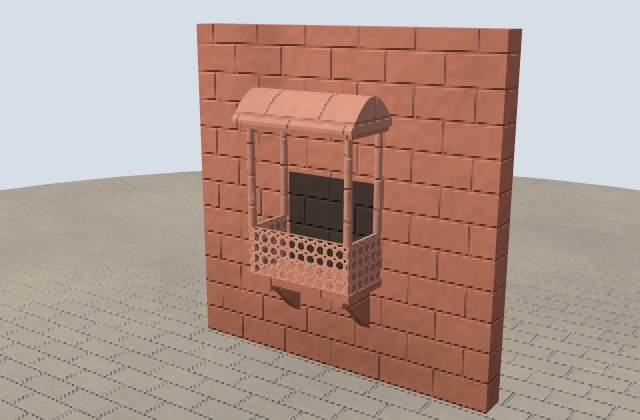
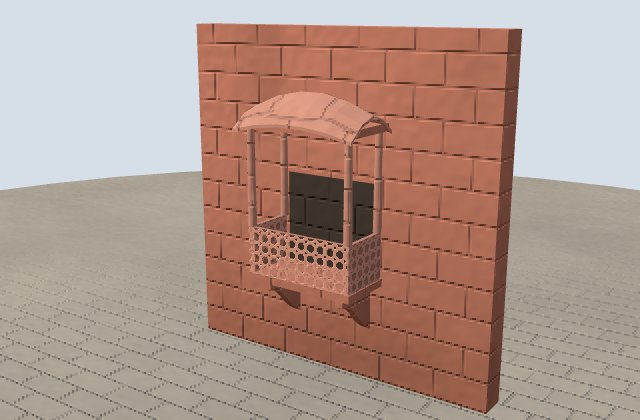
Doubly curved bangla roofs, Agra Fort's gilded pavilions and Red Fort's jharokha; copper and gilded-copper sheet surfaces
Claude-Session: https://claude.ai/code/session_01TMbkMUwCUQfd5rFm58379h

Changed region(s): [[0.5, 0.2167, 0.625, 0.3405], [0.3438, 0.1857, 0.4688, 0.3095]]

diff --git a/js/surface.js b/js/surface.js
@@ -7,7 +7,7 @@ import * as THREE from 'three';
 // patches of soot and age; strongest on brick, about half on marble, none on gilt) and a small
 // per-object tint so that repeated pieces don't look cloned. Water is its own kind: moving ripples
 // that tilt the normal, so the sky reflects in a broken, shifting band instead of a flat sheen.
-export const KINDS = { none: 0, masonry: 1, marble: 2, brick: 3, rock: 4, ground: 5, lattice: 6, tiles: 7, foliage: 8, water: 9, script: 10, frieze: 11, carved: 12, facade: 13, calligraphy: 14, pietra: 15, reliefs: 16, banded: 17, paving: 18, plates: 19, reeds: 20 };
+export const KINDS = { none: 0, masonry: 1, marble: 2, brick: 3, rock: 4, ground: 5, lattice: 6, tiles: 7, foliage: 8, water: 9, script: 10, frieze: 11, carved: 12, facade: 13, calligraphy: 14, pietra: 15, reliefs: 16, banded: 17, paving: 18, plates: 19, reeds: 20, copper: 21, giltsheet: 22 };
 
 // Seconds since the page opened, shared by every water material; main.js advances it each frame.
 export const waterTime = { value: 0 };
@@ -228,6 +228,29 @@ const PATTERN = /* glsl */ `
   sTint *= mix(1.0, 0.97, sRdSide * (1.0 - sNear));
   sH = sRdSide * (sRdEnd * 0.8 + sRdFine * 0.3 - sRdCourse * 0.6);
   sRough = 0.1;
+#elif SURF_KIND == 21 || SURF_KIND == 22
+  // Roofs sheathed in sheet copper (21), or in copper gilded (22): sheets 0.6 m wide and 2 m long
+  // in staggered courses, their standing seams fine dark lines worked out in space as on the bronze
+  // plates (19) so they run true over a curved roof, each sheet a shade different and dimpled by
+  // the hammer. On copper, verdigris: green along the seams, in streaks washed down the slope and
+  // in broad weathered patches; never on gilding.
+  vec3 sCuSz = vec3(0.6, 2.0, 0.6), sCuQ = sp / sCuSz;
+  float sCuRow = floor(sCuQ.y);
+  sCuQ.xz += 0.5 * mod(sCuRow, 2.0);
+  vec3 sCuCell = floor(sCuQ), sCuF = fract(sCuQ), sCuD = min(sCuF, 1.0 - sCuF) * sCuSz;
+  vec3 sCuAl = sqrt(max(vec3(1e-3), 1.0 - sn * sn));
+  float sCuJ = min(min(sCuD.x / sCuAl.x, sCuD.y / sCuAl.y), sCuD.z / sCuAl.z);
+  float sCuSeam = (1.0 - smoothstep(0.01, 0.035, sCuJ)) * sNear;
+  float sCuSheet = sHash(sCuCell + 3.0), sCuDent = sNoise(sp * 9.0);
+  sTint = (0.94 + 0.1 * sCuSheet + 0.05 * (sCuDent - 0.5)) * mix(1.0, 0.72, sCuSeam);
+  sH = sCuDent * 0.35 - sCuSeam * 0.8;
+  sRough = 0.08 * (sCuSheet - 0.5);
+  #if SURF_KIND == 21
+  float sCuWash = sNoise(vec3(sp.x * 1.6, sp.y * 0.12, sp.z * 1.6)), sCuBig = sFbm(sp * 0.25);
+  float sCuPat = clamp(smoothstep(0.55, 0.85, sCuBig + 0.25 * sCuWash) * 0.8 + (1.0 - smoothstep(0.0, 0.12, sCuJ)) * 0.45, 0.0, 0.85);
+  sCol = mix(vec3(1.0), vec3(0.62, 1.32, 1.12), sCuPat);
+  sRough += 0.25 * sCuPat;
+  #endif
 #elif SURF_KIND == 13
   // A tower's walls: a band of glazing on every floor (3.4 m), box-filtered over the pixel, so a
   // floor smaller than a pixel blends into an even tone instead of shimmering in bands. Roofs plain.
@@ -480,7 +503,7 @@ function patch(shader, kind, bump, photo, wave, edge, reflect) {
   normal = sPerturb(-vViewPosition, normal, vec2(dFdx(sH), dFdy(sH)) * ${bump.toFixed(2)} * (0.35 + 0.65 * sNear), faceDirection);`));
 }
 
-const BUMP = { masonry: 1.2, marble: 0.6, brick: 1.4, rock: 2.2, ground: 0.6, lattice: 0.4, tiles: 0.6, foliage: 1.6, water: 0, script: 0.3, frieze: 0.8, carved: 0.5, facade: 0, calligraphy: 0.2, pietra: 0.3, reliefs: 1.4, banded: 1.0, paving: 0.9, plates: 0.5, reeds: 1.6 };
+const BUMP = { masonry: 1.2, marble: 0.6, brick: 1.4, rock: 2.2, ground: 0.6, lattice: 0.4, tiles: 0.6, foliage: 1.6, water: 0, script: 0.3, frieze: 0.8, carved: 0.5, facade: 0, calligraphy: 0.2, pietra: 0.3, reliefs: 1.4, banded: 1.0, paving: 0.9, plates: 0.5, reeds: 1.6, copper: 0.6, giltsheet: 0.5 };
 
 // Choose a surface for a material from its look, unless one was set with surface().
 function guess(m) {

diff --git a/js/details/components.js b/js/details/components.js
@@ -2,6 +2,7 @@ import * as THREE from 'three';
 import { mergeGeometries } from 'three/addons/utils/BufferGeometryUtils.js';
 import { M, mat, mesh, box, cyl, lathe, at, surface, doubleSided, rise, ONION, ellipseWall, ribbed, finial, inst, unitBox, unitCyl } from '../helpers.js';
 import { attachSurface } from '../surface.js';
+import { detail } from '../detail.js';
 
 // Fine architectural parts shared by the detail modules: mouldings, arch rings, niches, roundels,
 // corbels, balustrades, eaves, merlons, lotus petals, finials, kiosks and carved lettering. Each
@@ -578,18 +579,39 @@ export function windowFrame(w, h, m, { shape = 'pointed', screen = null, frame =
   return g;
 }
 
-// A curved (bangla) roof w long along x and d deep, rising rh: a vault whose section is half a
-// sine, as on the jharokhas and pavilions of Rajput and late Mughal buildings. Its eaves are at
-// y = 0 from z = 0 to z = d.
-export function banglaRoof(w, d, rh, m) {
-  const sh = new THREE.Shape(), n = 12;
-  sh.moveTo(0, 0);
-  for (let k = 0; k <= n; k++) { const u = k / n; sh.lineTo(-u * d, Math.sin(u * Math.PI) * rh); }
-  sh.lineTo(-d, -rh * 0.12); sh.lineTo(0, -rh * 0.12); sh.closePath();
-  const geo = new THREE.ExtrudeGeometry(sh, { depth: w, bevelEnabled: false });
-  geo.translate(0, 0, -w / 2);
-  geo.rotateY(Math.PI / 2);
-  return mesh(geo, m);
+// A curved (bangla) roof w long along x and d deep, rising rh: the roof of the Bengali hut carried
+// into stone and copper on the jharokhas and pavilions of Rajput and late Mughal buildings. Curved
+// both ways: its section is half a sine from eave to eave, and both its ridge and its eaves droop
+// towards the ends (by `droop` × rh at the corners), so the corners hang lowest. A shell th thick.
+// Its eaves are at y = 0 (mid-length) from z = 0 to z = d.
+export function banglaRoof(w, d, rh, m, { droop = 0.35, th = Math.max(0.06, rh * 0.1) } = {}) {
+  // About two divisions a metre each way (fewer on phones), so a jharokha's roof stays light.
+  const k = detail.low ? 1 : 2, nu = Math.max(4, Math.min(16, Math.round(w * k))), nv = Math.max(3, Math.min(12, Math.round(d * k * 1.5)));
+  const pos = [], idx = [], N = (nu + 1) * (nv + 1);
+  const top = (u, v) => { const e = (2 * u - 1) ** 2; return rh * Math.sin(Math.PI * v) * (1 - 0.3 * e) - droop * rh * e; };
+  for (const side of [0, 1]) for (let j = 0; j <= nv; j++) for (let i = 0; i <= nu; i++) {
+    const u = i / nu, v = j / nv;
+    pos.push((u - 0.5) * w, top(u, v) - side * th, v * d);
+  }
+  const at_ = (side, i, j) => side * N + j * (nu + 1) + i;
+  for (let j = 0; j < nv; j++) for (let i = 0; i < nu; i++) {
+    const a = at_(0, i, j), b = at_(0, i + 1, j), c = at_(0, i + 1, j + 1), e = at_(0, i, j + 1);
+    idx.push(a, e, b, b, e, c);
+    const a1 = at_(1, i, j), b1 = at_(1, i + 1, j), c1 = at_(1, i + 1, j + 1), e1 = at_(1, i, j + 1);
+    idx.push(a1, b1, e1, b1, c1, e1);
+  }
+  // The rim: the shell's thickness round its four edges.
+  const rim = (list) => { for (let k = 0; k < list.length - 1; k++) { const [p, q] = [list[k], list[k + 1]]; idx.push(at_(0, ...p), at_(1, ...p), at_(0, ...q), at_(0, ...q), at_(1, ...p), at_(1, ...q)); } };
+  rim(Array.from({ length: nu + 1 }, (_, i) => [i, 0]));
+  rim(Array.from({ length: nu + 1 }, (_, i) => [nu - i, nv]));
+  rim(Array.from({ length: nv + 1 }, (_, j) => [0, nv - j]));
+  rim(Array.from({ length: nv + 1 }, (_, j) => [nu, j]));
+  const geo = new THREE.BufferGeometry();
+  geo.setAttribute('position', new THREE.Float32BufferAttribute(pos, 3));
+  geo.setIndex(idx);
+  const flat = geo.toNonIndexed();
+  flat.computeVertexNormals();
+  return mesh(flat, doubleSided(m));
 }
 
 // A jharokha: an oriel window w wide and h high (sill to eave) projecting d from a wall at z = 0,

diff --git a/js/details/red-fort.js b/js/details/red-fort.js
@@ -1,6 +1,6 @@
 import * as THREE from 'three';
-import { M, mesh, box, cyl, at, onFace, FACES, hemi, onionDome, finial, mat } from '../helpers.js';
-import { archRing, archSlab, panel, frieze, rosette, windowFrame, arcadeScreen, mergeByMaterial, mughalChhatri, chhajja, merlons } from './components.js';
+import { M, mesh, box, cyl, at, onFace, FACES, hemi, onionDome, finial, mat, surface } from '../helpers.js';
+import { archRing, archSlab, panel, frieze, rosette, windowFrame, arcadeScreen, mergeByMaterial, mughalChhatri, chhajja, merlons, jharokha } from './components.js';
 import { iwan, arcadeSkin, cellRow } from './mughal.js';
 import { towerDetail, slitRow } from './forts.js';
 import { trees, lampPosts, asiBoard, along } from './realism.js';
@@ -13,7 +13,7 @@ import { RIVER, OUTLINE } from '../monuments/red-fort.js';
 //   marble, rosettes in the spandrels, and a screen of small arches along its top;
 // - the octagonal towers either side open in an arched window on each face of their upper storey.
 // Dimensions follow js/monuments/red-fort.js: walls 10 thick centred on z = 0, the gate at z = 2.
-const Rd = M.red, Rl = M.redLight, Mb = M.marble;
+const Rd = M.red, Rl = M.redLight, Mb = M.marble, GILT_SHEET = surface(mat('#d9a93a', 0.32, 0.8), 'giltsheet');
 function architecture(f) {
   const d = new THREE.Group();
   for (const [x0, x1] of [[-60, -16], [16, 60]]) {
@@ -96,6 +96,12 @@ function insideWalls(g) {
   // Musamman Burj: an octagonal tower over the river wall, with a gilded dome.
   d.add(cyl(5.4, 6, 17.6, Rd, 48, 0, RW - 6, 8), cyl(5, 5, 6, Mb, 48, 17.6, RW - 6, 8));
   d.add(at(hemi(4.6, M.gild, 24), 48, 23.6, RW - 6), at(finial(3), 48, 28, RW - 6));
+  // The Jharokha-i-Darshan: the balcony on the tower's river face where the emperor showed himself
+  // each morning, in marble under a curved roof of gilded copper.
+  const jd = onFace(at(jharokha(2.2, 2.4, Mb, { d: 1.1, trim: Mb, roofM: GILT_SHEET }), 0, 18.6, 0), Math.PI - Math.PI / 8, 4.62);
+  jd.position.x += 48;
+  jd.position.z += RW - 6;
+  d.add(jd);
   // Hayat Bakhsh Bagh, the garden to the north of the palaces, with its pavilions and channels.
   d.add(box(120, 0.4, 120, M.grass, -220, 0, RW + 100), box(4, 0.5, 120, M.water, -220, 0, RW + 100), box(120, 0.5, 4, M.water, -220, 0, RW + 100));
   for (const x of [-280, -160]) d.add(at(pavilion(14, 10, 6, Mb, { arch: 2.6, kiosks: false }), x, 0, RW + 100));

diff --git a/js/monuments/agra-fort.js b/js/monuments/agra-fort.js
@@ -1,17 +1,12 @@
 import * as THREE from 'three';
-import { M, mesh, box, cyl, at, onFace, archPanel, chhatri, hemi, finial, inst, unitBox, unitCyl, aroundRect, sheet, curvedBand } from '../helpers.js';
+import { M, mat, surface, box, cyl, at, onFace, archPanel, chhatri, hemi, finial, inst, unitBox, unitCyl, aroundRect, sheet, curvedBand } from '../helpers.js';
 import { fortGate } from '../details/forts.js';
-import { columnTrim } from '../details/components.js';
+import { columnTrim, banglaRoof } from '../details/components.js';
 import { addDetails } from '../details/agra-fort.js';
 
-// The curved, gilded "bangaldar" roof of the Khas Mahal pavilions.
-function bangaldar(w, d, h, m) {
-  const s = new THREE.Shape();
-  s.moveTo(-w / 2, 0); s.quadraticCurveTo(-w / 2, h * 1.1, 0, h); s.quadraticCurveTo(w / 2, h * 1.1, w / 2, 0); s.closePath();
-  const geo = new THREE.ExtrudeGeometry(s, { depth: d, bevelEnabled: false, curveSegments: 12 });
-  geo.translate(0, 0, -d / 2);
-  return mesh(geo, m);
-}
+// The Khas Mahal's two golden pavilions (the Bangla-i-Darshan and the Bangla-i-Jahanara) are roofed
+// in gilded copper sheet, curved both ways, their corners drooping (js/details/components.js).
+const GILT_SHEET = surface(mat('#d9a93a', 0.32, 0.8), 'giltsheet');
 
 export function buildAgraFort() {
   const Rd = M.red, Rl = M.redLight, Mb = M.marble, g = new THREE.Group(), f = new THREE.Group();
@@ -42,9 +37,9 @@ export function buildAgraFort() {
   f.add(gate);
   // White marble palaces on the river front: Khas Mahal and the octagonal Musamman Burj
   f.add(box(90, 1, 20, Mb, -10, 12, 8));
-  for (const [x, w, roofM] of [[-34, 14, M.gild], [-10, 22, Mb], [14, 14, M.gild]]) {
+  for (const [x, w, roofM] of [[-34, 14, GILT_SHEET], [-10, 22, Mb], [14, 14, GILT_SHEET]]) {
     f.add(box(w, 7, 10, Mb, x, 13, 6), onFace(at(archPanel(3, 5, true, M.recess, 0.2), 0, 13.4, 0), 0, 11, x));
-    f.add(at(bangaldar(w + 1, 11, 4, roofM), x, 20, 6));
+    f.add(at(banglaRoof(w + 1.6, 11.6, 4, roofM, { droop: 0.22 }), x, 20.05, 0.2));
   }
   f.add(cyl(7, 7, 12, Mb, 44, 12, 6, 8), at(hemi(6, Mb, 16), 44, 24, 6), at(finial(4), 44, 30, 6));
   // Diwan-i-Am, the hall of public audience, in the inner court

diff --git a/js/monuments/padmanabhaswamy-temple.js b/js/monuments/padmanabhaswamy-temple.js
@@ -1,11 +1,12 @@
 import * as THREE from 'three';
-import { M, mat, box, at, hipRoof, inst, unitCyl, aroundRect, kalash } from '../helpers.js';
+import { M, mat, box, at, hipRoof, inst, unitCyl, aroundRect, kalash, surface } from '../helpers.js';
 import { gopuram, wallWithGaps, dwajasthambha } from '../details/temples.js';
 import { columnTrim } from '../details/components.js';
 import { addDetails } from '../details/padmanabhaswamy-temple.js';
 
 const STONE = ['#d9d2c2', '#bdb4a2', '#e6dece', '#a99f8c'];
-const COPPER = mat('#b0773f', 0.45, 0.4);
+// Sheet copper on the roofs, seamed and weathering green in places (js/surface.js, 'copper').
+const COPPER = surface(mat('#b0773f', 0.45, 0.4), 'copper'), GILT_SHEET = surface(mat('#d9a93a', 0.32, 0.8), 'giltsheet');
 const LIME = mat('#efe9dd', 0.85);
 
 export function buildPadmanabhaswamy() {
@@ -23,9 +24,9 @@ export function buildPadmanabhaswamy() {
   aroundRect(74, 96, 2.6).forEach(([x, z]) => cols.push([x, 1.2, z, 0.9, 5, 0.9]));
   f.add(box(80, 1.2, 102, M.granite), inst(unitCyl(8), cols, M.granite), columnTrim(cols, M.granite, { capM: M.graniteDark }));
   for (const s of [-1, 1]) f.add(box(80, 0.8, 6, M.graniteDark, 0, 6.2, s * 48), box(6, 0.8, 102, M.graniteDark, s * 37, 6.2, 0));
-  // Sanctum under tiered Kerala copper roofs, and the gold flagstaff in front
+  // Sanctum under tiered Kerala roofs, sheet copper below and gilded copper above, and the gold flagstaff in front
   f.add(box(34, 7, 46, LIME, 0, 1.2, -10), at(hipRoof(38, 50, 8, COPPER), 0, 8.2, -10));
-  f.add(box(16, 4, 26, LIME, 0, 12, -12), at(hipRoof(19, 29, 6, M.gild), 0, 16, -12));
+  f.add(box(16, 4, 26, LIME, 0, 12, -12), at(hipRoof(19, 29, 6, GILT_SHEET), 0, 16, -12));
   for (const z of [-20, -12, -4]) f.add(at(kalash(1.6), 0, 21.6, z));
   // The tall gold-tipped dwajasthambha on the axis between the gopuram and the sanctum.
   const mast = dwajasthambha(0, 26, 25);

diff --git a/js/monuments/golden-temple.js b/js/monuments/golden-temple.js
@@ -1,5 +1,5 @@
 import * as THREE from 'three';
-import { M, mat, mesh, box, cyl, lathe, at, onFace, FACES, archPanel, onionDome, hemi, finial, kalash, chhatri, ribbed, sheet } from '../helpers.js';
+import { M, mat, mesh, box, cyl, lathe, at, onFace, FACES, archPanel, onionDome, hemi, finial, kalash, chhatri, ribbed, sheet, surface } from '../helpers.js';
 import { fortGate } from '../details/forts.js';
 import { wallWithGaps } from '../details/temples.js';
 import { steps } from '../details/doorways.js';
@@ -9,7 +9,7 @@ import { addDetails } from '../details/golden-temple.js';
 
 const SILVER = mat('#cfd3d8', 0.3, 0.85);
 // The gilded copper, lit warmly so it reads as gold and not as dark bronze on the shaded faces.
-const GILT = mat('#e3b54a', 0.35, 0.6, { emissive: '#4a3306' });
+const GILT = surface(mat('#e3b54a', 0.35, 0.6, { emissive: '#4a3306' }), 'giltsheet');
 
 export function buildGoldenTemple() {
   const G = GILT, Gd = M.gildDeep, W = M.marble, g = new THREE.Group(), f = new THREE.Group();

diff --git a/js/details/padmanabhaswamy-temple.js b/js/details/padmanabhaswamy-temple.js
@@ -1,5 +1,5 @@
 import * as THREE from 'three';
-import { M, V, mat, mesh, box, at, inst, unitBox, unitCyl, onFace, FACES, strut, bulbPoints } from '../helpers.js';
+import { M, V, mat, mesh, box, at, inst, unitBox, unitCyl, onFace, FACES, strut, bulbPoints, surface } from '../helpers.js';
 import { mergeByMaterial } from './components.js';
 import { keralaGable } from './temples.js';
 import { detail } from '../detail.js';
@@ -14,7 +14,7 @@ import { rideElephant } from './animals.js';
 // 46 from y = 1.2 to 8.2 centred on z = -10 under a copper hip roof 38 × 50 × 8; the upper storey
 // 16 × 26 from y = 12 to 16 at z = -12 under a gilt roof 19 × 29 × 6; outer walls 7 high and 2.5
 // thick round 100 × 130, open on the east (+z) at the gopuram.
-const COPPER = mat('#b0773f', 0.45, 0.4);
+const COPPER = surface(mat('#b0773f', 0.45, 0.4), 'copper');
 const TEAK = mat('#5a3a24', 0.7);
 const TILE = mat('#9a4a32', 0.8);
 const BRASS = mat('#b8913f', 0.35, 0.8);

diff --git a/architecture.md b/architecture.md
@@ -80,8 +80,8 @@ for (const a of FACES) d.add(onFace(at(windowFrame(2, 4.2, M.cream, { shape: 'fl
 | ![Chhatri](img/chhatri.jpg) | ![Mughal chhatri](img/mughal-chhatri.jpg) | ![Guldastas](img/guldasta.jpg) |
 | :---: | :---: | :---: |
 | Chhatri | Mughal chhatri | Guldastas |
-| ![Minaret](img/minaret.jpg) | ![Jharokha](img/jharokha.jpg) |   |
-| Minaret | Jharokha |   |
+| ![Minaret](img/minaret.jpg) | ![Jharokha](img/jharokha.jpg) | ![Copper and gilded-copper roofs](img/copper-roofs.jpg) |
+| Minaret | Jharokha | Copper and gilded-copper roofs |
 
 | Part | File | What it is |
 | --- | --- | --- |
@@ -90,7 +90,7 @@ for (const a of FACES) d.add(onFace(at(windowFrame(2, 4.2, M.cream, { shape: 'fl
 | `guldasta(h, r, m)` | helpers | The slender roof turret of Lucknow: a shaft, a tiny onion dome and a spike |
 | `minaret(h, r, m, { balconies, cap })` | helpers | A tapering minaret with balconies, capped by a chhatri |
 | `jharokha(w, h, m, { roof })` | components | An oriel window on brackets, screened on three sides, under a curved (`'bangla'`), domed or flat roof |
-| `banglaRoof(w, d, rise, m)` | components | The curved roof of Bengal, as on jharokhas and pavilions |
+| `banglaRoof(w, d, rise, m, { droop })` | components | The curved roof of Bengal, as on jharokhas and pavilions: curved both ways, its ridge and eaves drooping to the corners |
 
 ## Pillars and columns
 
@@ -291,6 +291,8 @@ continuous skin in `js/details/figures.js` and `js/sdf.js`. The tools for workin
 | `bakeCavities(geo, f, reach, deep, { wear })` | sdf | Darkens the crevices into vertex colours, and with `wear` lightens the ridges |
 | `surface(m, 'plates')` | surface | Bronze cast in plates: staggered joints worked out in space, so they run true over a curved body |
 | `surface(m, 'reeds')` | surface | A penbey parapet: the maroon-painted cut ends of tamarisk twigs, in bundled courses |
+| `surface(m, 'copper')` | surface | Sheet copper: staggered sheets with standing seams worked out in space, hammer dimples, and verdigris along the seams, in streaks and in weathered patches |
+| `surface(m, 'giltsheet')` | surface | The same sheets gilded: seams and dimples, no verdigris |
 
 ## Terrain (`js/details/terrain.js`)
 

diff --git a/components.md b/components.md
@@ -23,8 +23,8 @@ From [architecture.md](architecture.md).
 | ![Chhatri](img/chhatri.jpg) | ![Mughal chhatri](img/mughal-chhatri.jpg) | ![Guldastas](img/guldasta.jpg) |
 | :---: | :---: | :---: |
 | Chhatri | Mughal chhatri | Guldastas |
-| ![Minaret](img/minaret.jpg) | ![Jharokha](img/jharokha.jpg) |   |
-| Minaret | Jharokha |   |
+| ![Minaret](img/minaret.jpg) | ![Jharokha](img/jharokha.jpg) | ![Copper and gilded-copper roofs](img/copper-roofs.jpg) |
+| Minaret | Jharokha | Copper and gilded-copper roofs |
 
 ### [Pillars and columns](architecture.md#pillars-and-columns)
 
